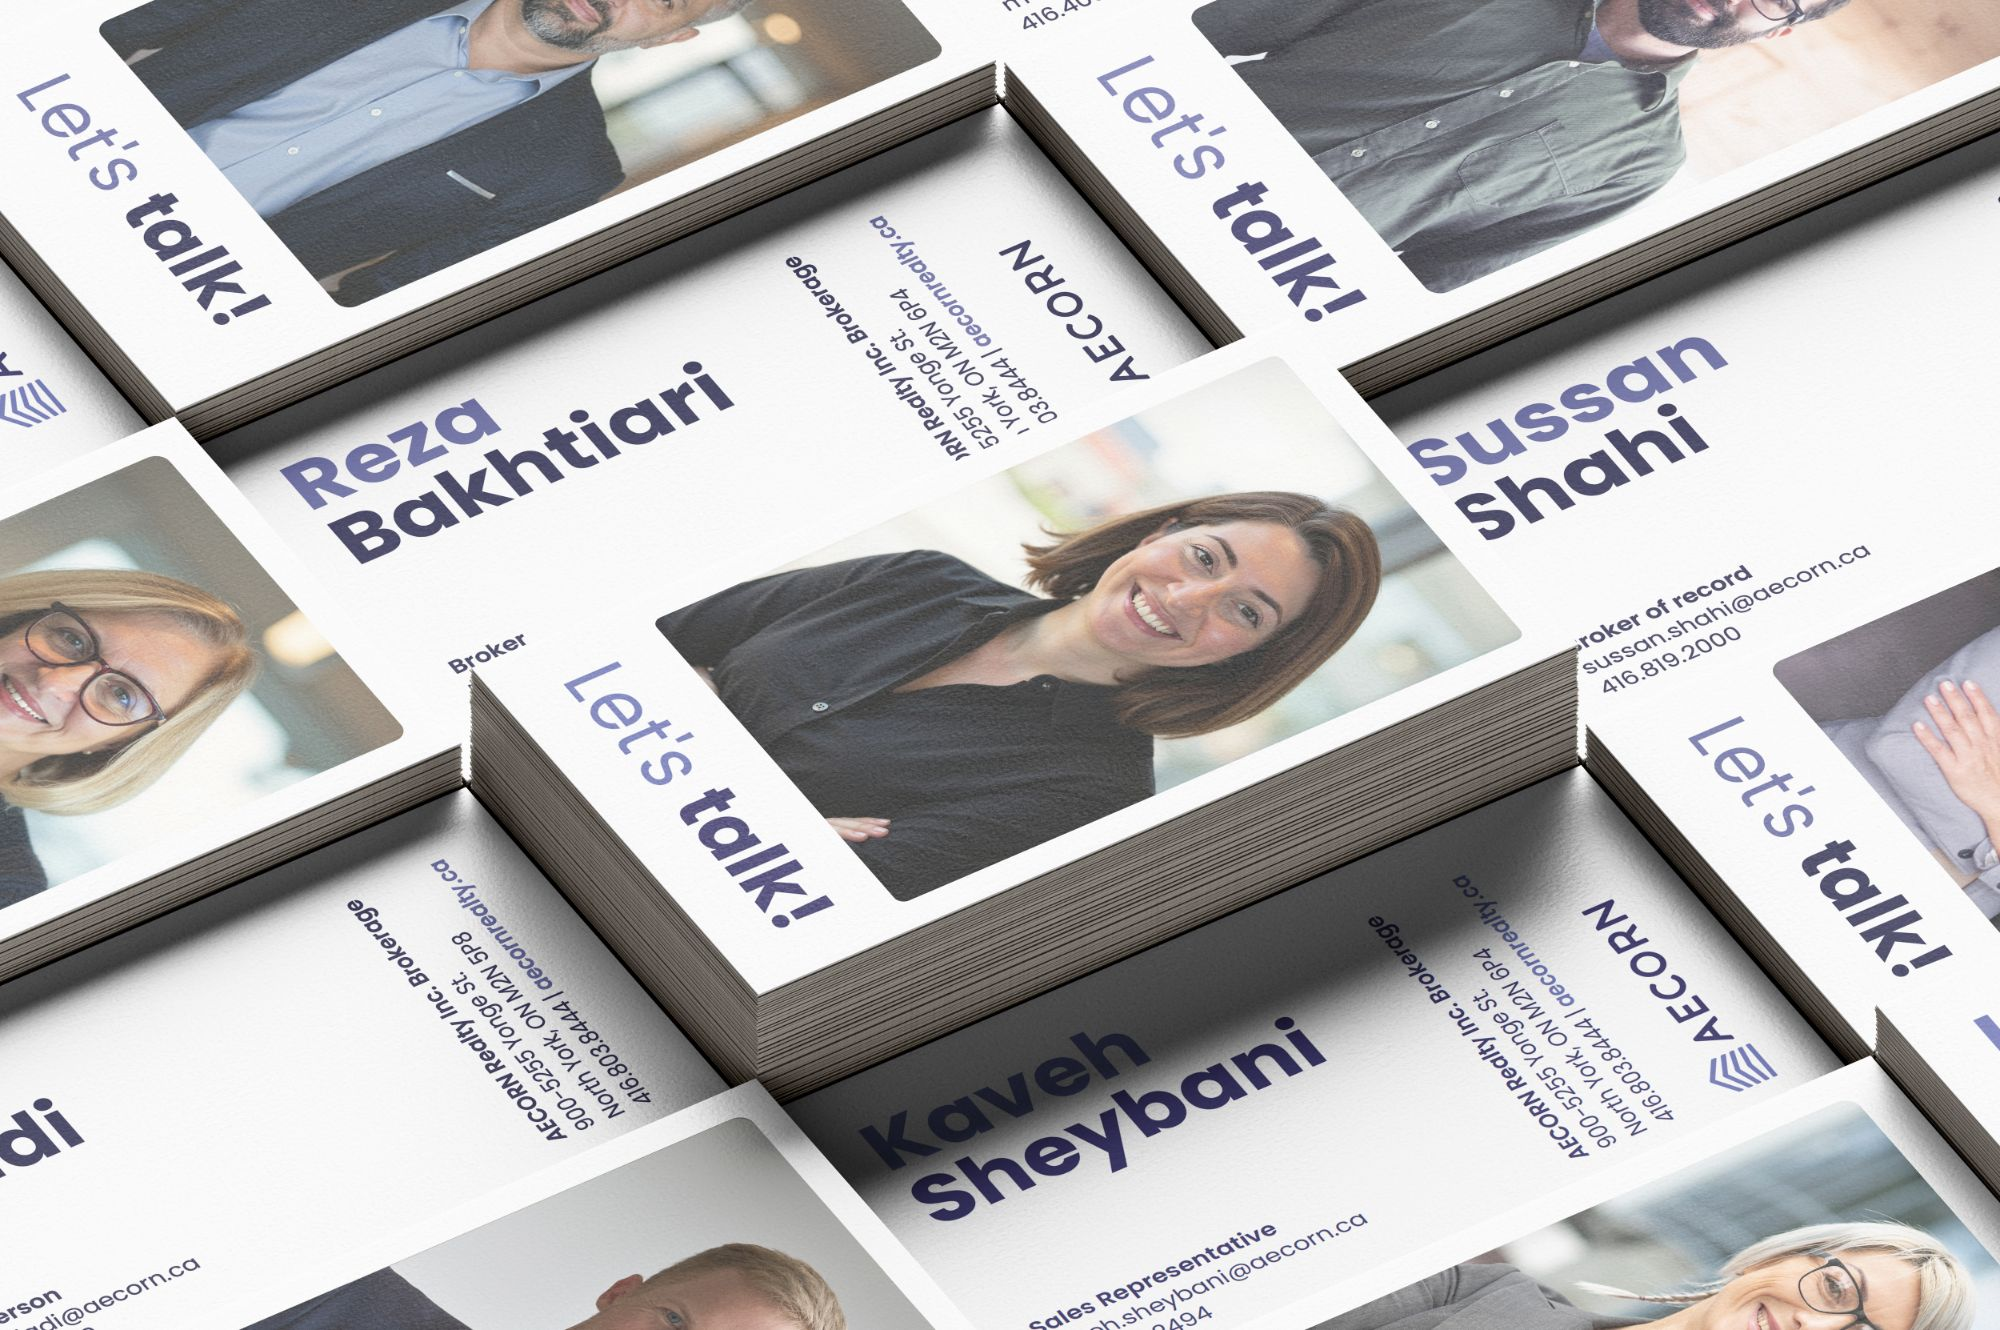
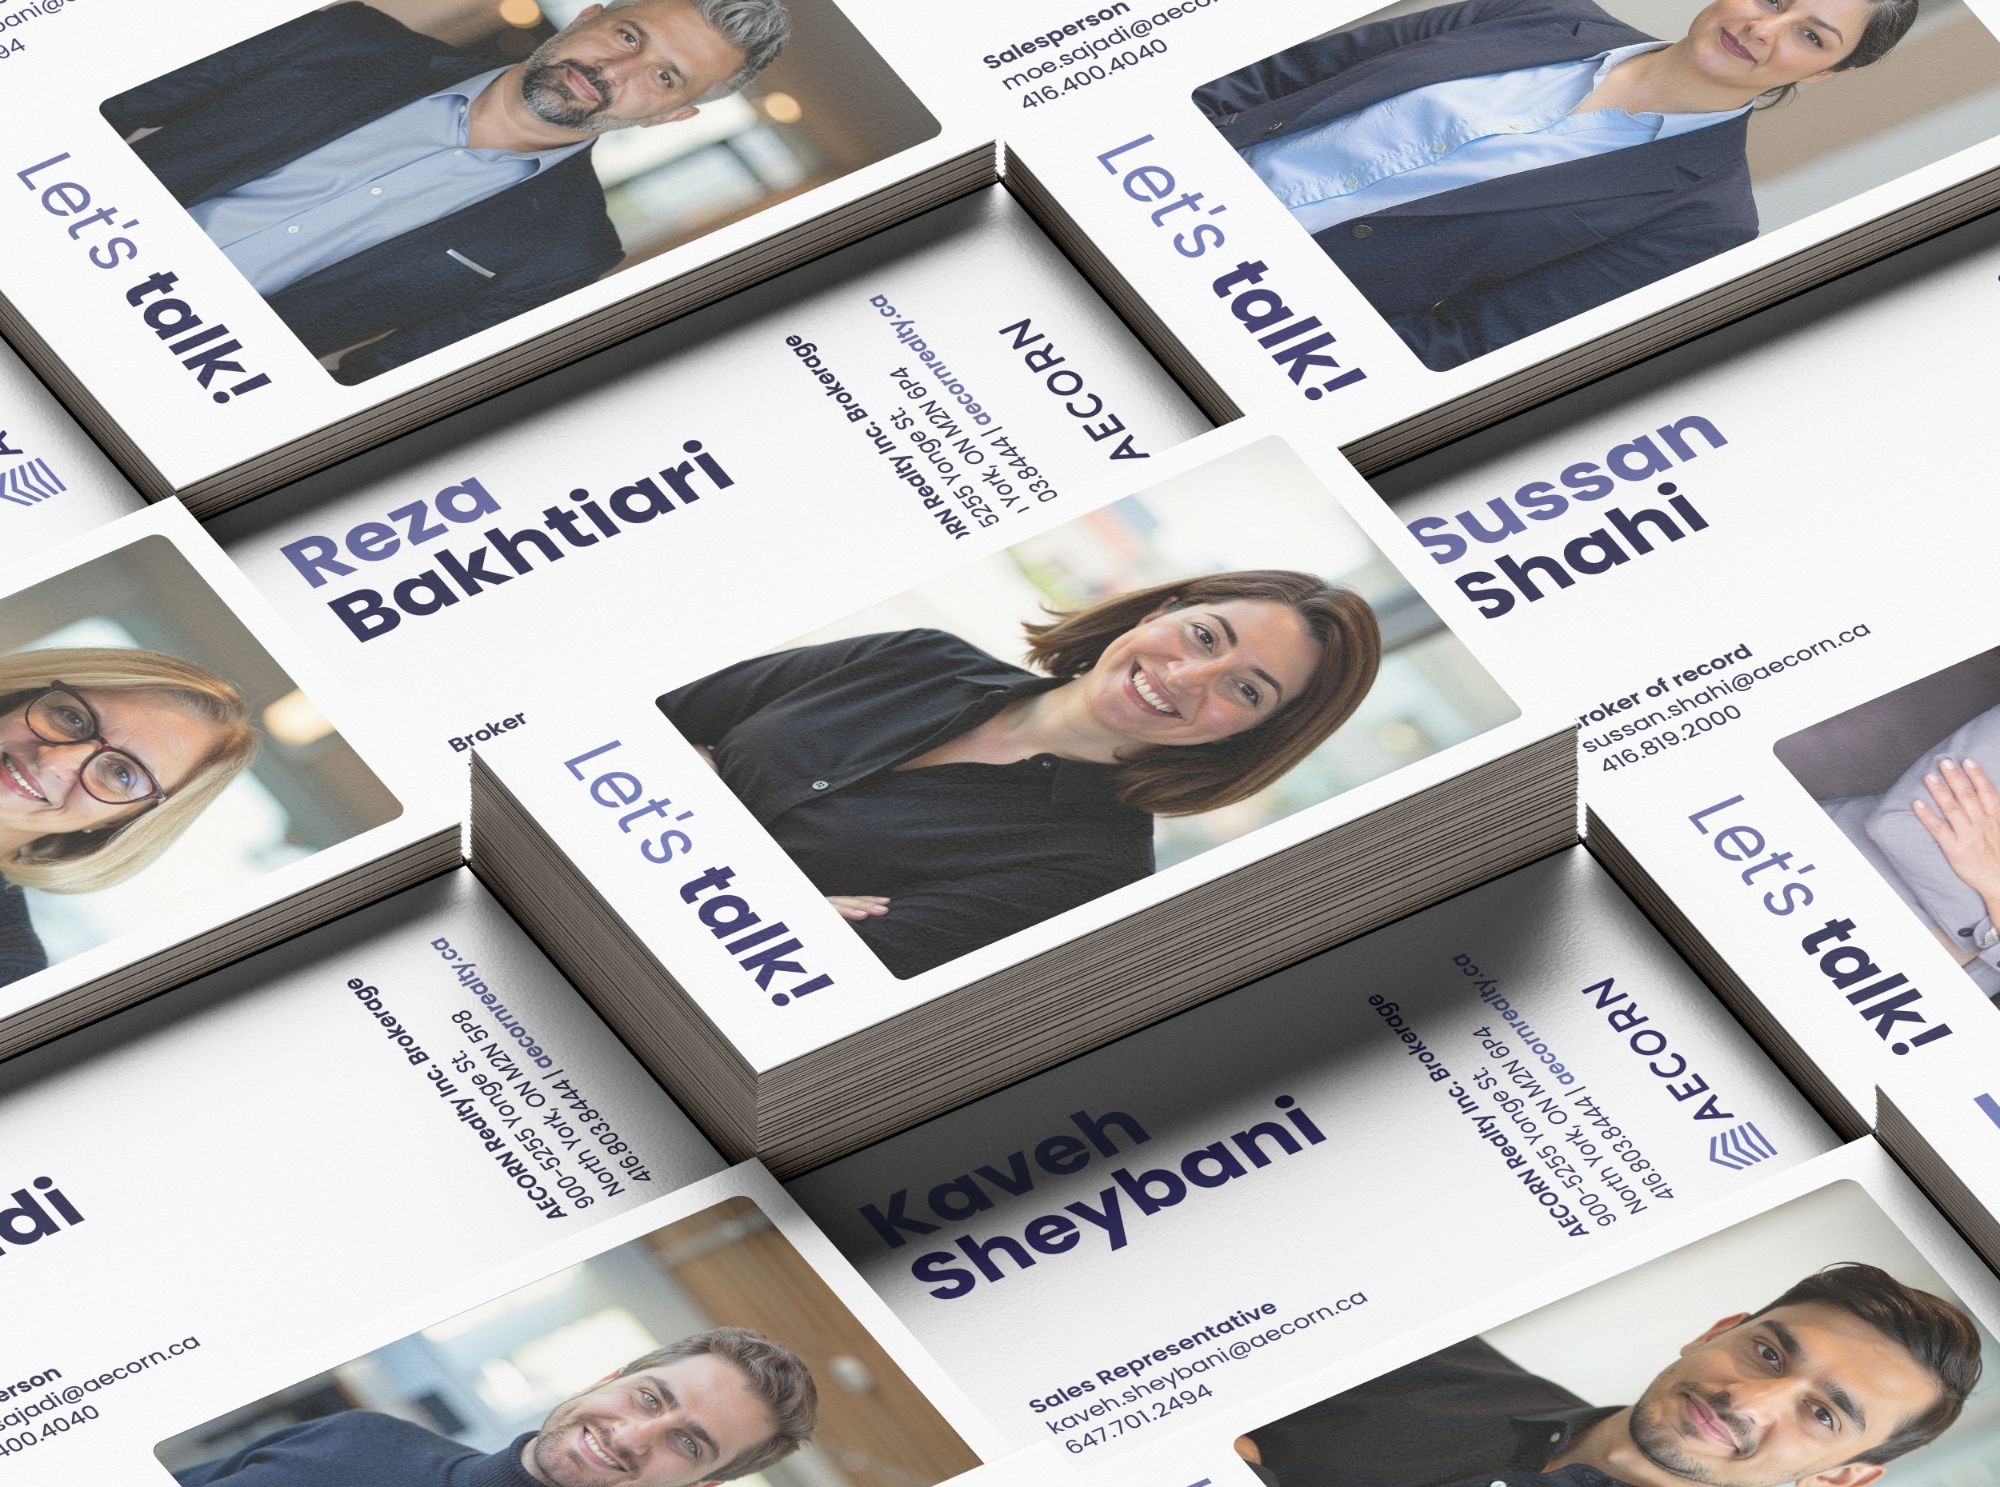
AECORN Realty draft: new business cards image, grey rows below removed

diff --git a/design/Project - AECORN Realty.dc.html b/design/Project - AECORN Realty.dc.html
@@ -203,23 +203,6 @@
 
   <img src="img/aecorn-business-cards.jpg" alt="Stacks of AECORN business cards with agent photos and Let's talk!" style="display:block;width:100%;aspect-ratio:16/9;object-fit:cover;">
 
-  <div style="display:grid;grid-template-columns:repeat(12,minmax(0,1fr));gap:24px;margin-top:24px;height:{{ col.rowH }};">
-    <img src="img/placeholder.svg" alt="Placeholder image" style="grid-column:{{ col.span4 }};display:block;width:100%;height:100%;aspect-ratio:{{ col.ar4 }};object-fit:cover;">
-    <img src="img/placeholder.svg" alt="Placeholder image" style="grid-column:{{ col.span4 }};display:block;width:100%;height:100%;aspect-ratio:{{ col.ar4 }};object-fit:cover;">
-    <img src="img/placeholder.svg" alt="Placeholder image" style="grid-column:{{ col.span4 }};display:block;width:100%;height:100%;aspect-ratio:{{ col.ar4 }};object-fit:cover;">
-  </div>
-
-  <div style="display:grid;grid-template-columns:repeat(12,minmax(0,1fr));gap:24px;margin-top:24px;">
-    <img src="img/placeholder.svg" alt="Placeholder image" style="grid-column:{{ col.span6 }};display:block;width:100%;aspect-ratio:3/2;object-fit:cover;">
-    <img src="img/placeholder.svg" alt="Placeholder image" style="grid-column:{{ col.span6 }};display:block;width:100%;aspect-ratio:3/2;object-fit:cover;">
-  </div>
-
-  <div style="display:grid;grid-template-columns:repeat(12,minmax(0,1fr));gap:24px;margin-top:24px;height:{{ col.rowH }};">
-    <img src="img/placeholder.svg" alt="Placeholder image" style="grid-column:{{ col.span4 }};display:block;width:100%;height:100%;aspect-ratio:{{ col.ar4 }};object-fit:cover;">
-    <img src="img/placeholder.svg" alt="Placeholder image" style="grid-column:{{ col.span4 }};display:block;width:100%;height:100%;aspect-ratio:{{ col.ar4 }};object-fit:cover;">
-    <img src="img/placeholder.svg" alt="Placeholder image" style="grid-column:{{ col.span4 }};display:block;width:100%;height:100%;aspect-ratio:{{ col.ar4 }};object-fit:cover;">
-  </div>
-
   <div style="display:grid;grid-template-columns:repeat(12,minmax(0,1fr));gap:24px;padding:{{ col.secPad }};">
     <div style="grid-column:1 / span 4;display:{{ col.scopeDisp }};flex-direction:column;gap:2px;">
       <div style="font-size:12px;line-height:1.4;font-weight:700;letter-spacing:0.06em;text-transform:uppercase;color:#FA3420;">Process</div>
